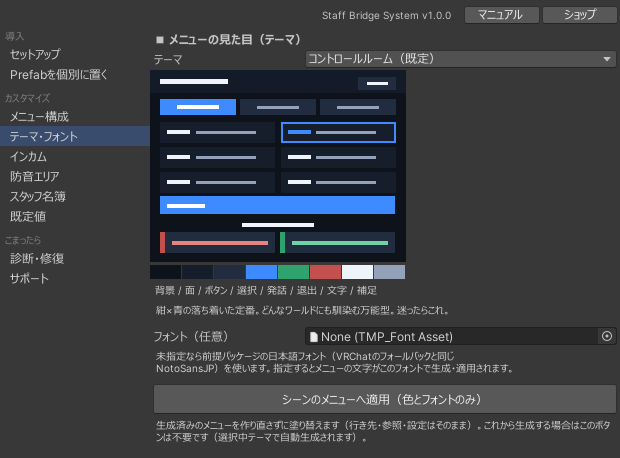
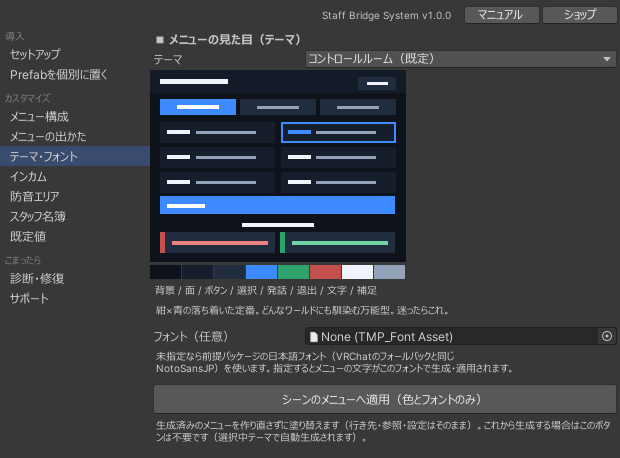
Staff Bridge System: 設定の入口をセットアップ窓へ寄せた分をマニュアルへ反映
メニューの出かた・無線の詳細・通知ログ/タイマー/ログの既定値・ノート編集を
Inspector 案内からセットアップ窓のページ案内へ差し替え、サンプルワールドのURLを載せた。

Changed region(s): [[0.0, 0.2751, 0.2452, 0.6725]]

diff --git a/docs/staff-bridge-system/howto.md b/docs/staff-bridge-system/howto.md
@@ -15,12 +15,13 @@
 
 | ページ | 内容 |
 |---|---|
-| メニュー構成 | タブの並べ替えと ON / OFF、メニューの作り直し、テレポート先の編集、プリセットメッセージ編集 |
+| メニュー構成 | タブの並べ替えと ON / OFF、メニューの作り直し、テレポート先の編集、プリセットメッセージ編集、ノート編集 |
+| メニューの出かた | 開く長押し秒・Desktop開閉キー・スティックのしきい値、表示スケール／距離／下オフセット、自動で閉じる距離、最初に開くタブ |
 | テーマ・フォント | 配色テーマの選択、カスタム色、フォント、生成済みメニューへの再着色 |
-| インカム | CH数（2〜12）の変更、各チャンネルの表示名、インカムの一時停止 |
+| インカム | CH数（2〜12）の変更、各チャンネルの表示名、スタッフ限定モード・送信解除の待ち秒・ジェスチャー発話、インカムの一時停止 |
 | 防音エリア | エリア名、外へ届く距離、BoxCollider との連動 |
 | スタッフ名簿 | 最初からスタッフにしておく人の編集、`.asset` への書き出し／読み込み |
-| 既定値 | メガホンの長押し秒・最大使用秒、無線の最大送信秒、通知音の初期音量、DTキー発話の候補 |
+| 既定値 | メガホンの長押し秒・最大使用秒、無線の最大送信秒、通知音の初期音量、通知ログ・共有タイマー・入退室ログの既定値、DTキー発話の候補 |
 
 !!! info "いつシーンに反映されるか"
     各ページの入力は**下書き**です。上部に固定されているバーの **変更を反映** を押すまで、シーンは変わりません。下書きが入っている欄には `*` が付き、バーに件数が出ます。
@@ -36,12 +37,12 @@
 | 使わないタブを消したい | メニュー構成ページ ＞ 各行のチェックを外す → **この構成でメニューを作り直す**（「設定」タブは常に ON） |
 | タブの並び順を変えたい | メニュー構成ページ ＞ 行をドラッグして並べ替え → **この構成でメニューを作り直す** |
 | 作り直すと設定が消えないか知りたい | テレポート先・CH名・定型文・ノートの内容・スイッチの設定・既定値・メニューの位置は引き継がれます。メニュー自体は新しいオブジェクトになるため、外部から参照している場合は貼り直しが必要です |
-| ノートの内容を書き換えたい | Inspector：`StaffCuePanel` の **ページ名** と **ページ本文**（同じ数・同じ順） |
+| ノートの内容を書き換えたい | メニュー構成ページ ＞ **ノート編集を開く**（ページの追加・並べ替え・本文の編集。最大6ページ） |
 | スイッチの発火先を決めたい | Inspector：`StaffTrigger` の **ラベル／発火先／イベント名／全員に送る**（4つとも同じ数・同じ順） |
-| 共有タイマーの2回押しの猶予を変えたい | Inspector：`StaffOpsTimer` の **確認の有効秒**（既定 5） |
-| 入退室ログの保持件数を変えたい | Inspector：`StaffJoinLog` の **最大行数**（既定 100） |
-| 通知ログの既定位置を変えたい | Inspector：`StaffNoticeLog` の **表示位置**（各自が設定タブで上書きできます） |
-| 入退室を通知ログに出したくない | Inspector：`StaffNoticeLog` の **入退室を表示する** を OFF |
+| 共有タイマーの2回押しの猶予を変えたい | 既定値ページ ＞ **共有タイマーの確認秒**（既定 5） |
+| 入退室ログの保持件数を変えたい | 既定値ページ ＞ **入退室ログの保持行数**（既定 100） |
+| 通知ログの既定位置を変えたい | 既定値ページ ＞ **通知ログの位置**（各自が設定タブで上書きできます） |
+| 入退室を通知ログに出したくない | 既定値ページ ＞ **入退室を通知ログに載せる** を OFF |
 
 ## メニューの出かた・見た目
 
@@ -50,14 +51,16 @@
 | 配色を変えたい | テーマ・フォントページ→ [カスタマイズ](customize.md) |
 | フォントを変えたい | 同じ場所の **フォント（任意）**。未指定なら日本語フォントが使われる → [カスタマイズ](customize.md#font) |
 | 配置済みのメニューに色だけ反映したい | 同じ場所の **シーンのメニューへ適用（色とフォントのみ）** |
-| 開くキーを Tab 以外にしたい | Inspector：`StaffMenuShell` の **Desktop開閉キー**（Tab / F1〜F4 / B / G / N）→ [リファレンス](reference.md#menu-shell) |
-| 開くまでの長押しを短く／長くしたい | Inspector：`StaffMenuShell` の **開く保持秒**（既定 0.5） |
-| VR で開きにくい／勝手に開く | Inspector：`StaffMenuShell` の **スティック下しきい値**（既定 -0.7。-1 に近いほど深く倒す） |
-| メニューが大きすぎる・見切れる | Inspector：`StaffMenuShell` の **表示スケール**（既定 0.6）。0.75 を超えると Desktop で下端が切れやすい |
-| もっと近く／遠くに出したい | Inspector：`StaffMenuShell` の **表示距離**（既定 0.55m） |
-| 正面の視界を空けたい | Inspector：`StaffMenuShell` の **表示の下オフセット**（既定 0.12m） |
-| 開いたメニューが置きっぱなしになる | Inspector：`StaffMenuShell` の **離れたら自動で閉じる** と **自動で閉じる距離**（既定 3m） |
-| 最初に開くタブを変えたい | Inspector：`StaffMenuShell` の **初期パネル**（0 = 1番目）。2回目以降は前回のタブが開く |
+| 開くキーを Tab 以外にしたい | メニューの出かたページ ＞ **Desktop開閉キー**（Tab / F1〜F4 / B / G / N）→ [リファレンス](reference.md#menu-shell) |
+| 開くまでの長押しを短く／長くしたい | メニューの出かたページ ＞ **開く長押し秒**（既定 0.5） |
+| VR で開きにくい／勝手に開く | メニューの出かたページ ＞ **スティック下しきい値**（既定 -0.7。-1 に近いほど深く倒す） |
+| メニューが大きすぎる・見切れる | メニューの出かたページ ＞ **表示スケール**（既定 0.6）。0.75 を超えると Desktop で下端が切れやすい |
+| もっと近く／遠くに出したい | メニューの出かたページ ＞ **表示距離**（既定 0.55m） |
+| 正面の視界を空けたい | メニューの出かたページ ＞ **下オフセット**（既定 0.12m） |
+| 開いたメニューが置きっぱなしになる | メニューの出かたページ ＞ **離れたら自動で閉じる** と **自動で閉じる距離**（既定 3m） |
+| 最初に開くタブを変えたい | メニューの出かたページ ＞ **最初に開くタブ**（0 = 1番目）。2回目以降は前回のタブが開く |
+
+![メニューの出かたページ](images/edit-display.png)
 
 個人ごとの大きさ・距離は、各自がメニューの[設定タブ](usage.md#settings)からも調整できます（ワールド側の値に倍率が掛かります）。
 
@@ -82,10 +85,10 @@
 | チャンネルを増やす／減らす | インカムページ ＞ **CH数**（2〜12）を決めてボタンを押す。`Tools ＞ MGR ＞ Staff Bridge System ＞ インカムCHを追加 ／ 削除（末尾から）` からも1本ずつ増減できます |
 | 送信しっぱなしを防ぎたい | 既定値ページ ＞ **無線の最大送信秒**（既定 120） |
 | Desktop のキー発話の候補を変えたい | 既定値ページ ＞ DTキー発話の候補（枠1は OFF 固定） |
-| 来場者に無線を聞かせたくない | Inspector：`StaffIncomRadio` の **スタッフ限定モード** を ON のまま使う（既定 ON・ワールドに焼き込み） |
-| 語尾が切れる | Inspector：`StaffIncomRadio` の **送信解除の待ち秒**（既定 0.3。目安 0.2〜0.4） |
-| 耳元ジェスチャーの位置・手を変えたい | Inspector：`StaffIncomRadio` の **発話ジェスチャー位置**（耳／肩／胸元）と **発話する手** |
-| ジェスチャーが反応しにくい／誤爆する | Inspector：同じく **判定半径**（既定 0.20m。目安 0.15〜0.25） |
+| 来場者に無線を聞かせたくない | インカムページ ＞ **スタッフ限定モード** を ON のまま使う（既定 ON・ワールドに焼き込み） |
+| 語尾が切れる | インカムページ ＞ **送信解除の待ち秒**（既定 0.3。目安 0.2〜0.4） |
+| 耳元ジェスチャーの位置・手を変えたい | インカムページ ＞ **ジェスチャーの位置**（耳／肩／胸元）と **発話する手** |
+| ジェスチャーが反応しにくい／誤爆する | インカムページ ＞ **判定半径**（既定 0.20m。目安 0.15〜0.25） |
 | 押しっぱなしをやめてトグルにしたい | 各自がメニューの[設定タブ](usage.md#settings)で切り替え。初期値は Inspector の `StaffTalkSettings` |
 | 誰の声が誰に聞こえるか事前に確かめたい | 診断・修復ページ ＞ インカム聴こえ方マトリクス検査 |
 
@@ -128,8 +131,8 @@
 | 定型文をイベント用に書き換えたい | メニュー構成ページ ＞ プリセットメッセージ編集 → [運用ガイド](operation.md#broadcast-presets) |
 | よく使う文をまとめたい | 同じ画面でカテゴリ名を揃える（カテゴリごとにタブが分かれる） |
 | 緊急の文を目立たせたい | プリセット本文に TMP のリッチテキスト（`<color=...>` など）を使う |
-| 通知ログの行がすぐ消える／残りすぎる | Inspector：`StaffNoticeLog` の **表示秒**（既定 20）、**自分宛表示秒**（既定 40） |
-| 通知ログの出る位置を変えたい | Inspector：`StaffNoticeLog` の **表示位置**（各自が設定タブで上書きできます） |
+| 通知ログの行がすぐ消える／残りすぎる | 既定値ページ ＞ **通知ログの表示秒**（既定 20）、**自分宛の表示秒**（既定 40） |
+| 通知ログの出る位置を変えたい | 既定値ページ ＞ **通知ログの位置**（各自が設定タブで上書きできます） |
 | 入室直後に古いメッセージを出したくない | Inspector：`StaffBroadcast` の **表示秒**（既定 6）。これより古い受信は入室時に出しません |
 | 受信ログの件数を変えたい | Inspector：`StaffBroadcast` の **履歴件数**（既定 16） |
 | 自分宛の目印を変えたい | Inspector：`StaffBroadcast` の **自分宛プレフィックス** |

diff --git a/docs/staff-bridge-system/reference.md b/docs/staff-bridge-system/reference.md
@@ -28,6 +28,8 @@
 
 メニューの開閉・表示位置・スタッフ判定の門番を担当します。個々の機能はパネルとして分離されています。
 
+下の「開閉操作」「表示」は、セットアップ窓の **カスタマイズ ＞ メニューの出かた** ページからも変えられます（通常はそちらが早いです）。
+
 ![StaffMenuShell のインスペクタ](images/inspector-menushell.png)
 
 ### 開閉操作
@@ -55,6 +57,8 @@
 ## StaffIncomRadio（インカム）
 
 チャンネルの参加・離脱と発話を担当します。同じチャンネルのメンバーの発話だけが、距離に関係なく聞こえます。
+
+下の設定は、セットアップ窓の **カスタマイズ ＞ インカム** ページからも変えられます。
 
 !!! warning "配置場所の制約"
     メニュー配下ではなく、**常に Active な GameObject** の下に置く必要があります。メニューを閉じた状態でも発話できるようにするためです。誤って配置した場合は、このコンポーネントの Inspector に注意書きが表示されます。
@@ -180,6 +184,8 @@
 
 同時に表示できるのは5件までで、溢れたぶんは古い行から消えます。行の本文は省略されず、欄の幅で折り返します。
 
+色以外の項目は、セットアップ窓の **カスタマイズ ＞ 既定値** ページからも変えられます（共有タイマーの確認秒・入退室ログの保持行数も同じページです）。
+
 ---
 
 ## StaffOpsTimer（タイマー） { #timer }
@@ -217,6 +223,8 @@
 |---|---|---|---|
 | ページ名 | string[] | 開場前 / 本編 / 終了後 | ページ切替ボタンに出す名前。**ページ本文と同じ数・同じ順**にする |
 | ページ本文 | string[] | 3件 | 各ページの本文。TMP のリッチテキストが使える |
+
+通常は Inspector ではなく、セットアップ窓の **カスタマイズ ＞ メニュー構成 ＞ ノート編集を開く**（または `Tools ＞ MGR ＞ Staff Bridge System ＞ ノート編集`）から編集してください。ページの追加・並べ替え・本文の編集がまとめて行え、2つの配列の数が食い違う心配もありません。
 
 ページは最大6枚です。下の入力欄は各自の走り書きメモで、同期せず、ワールドを出ると消えます。
 
